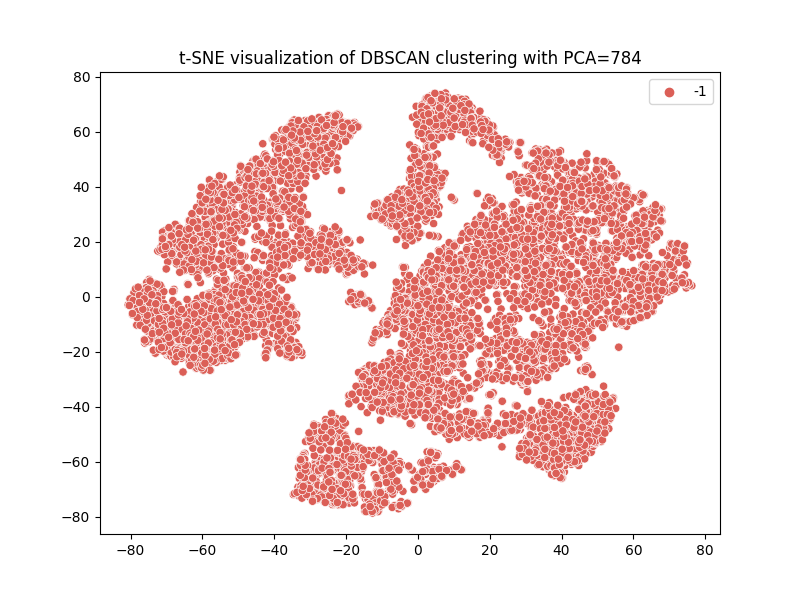
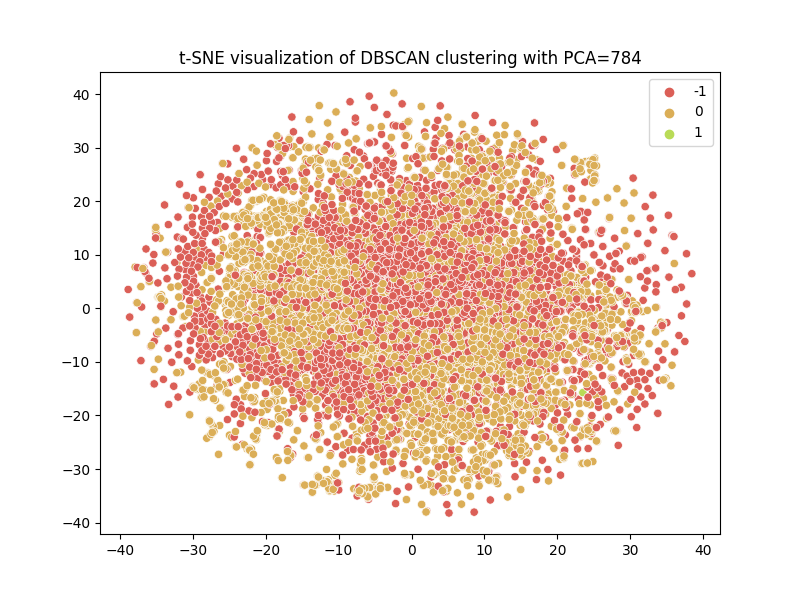
dbscan.py update & Result images.

diff --git a/dbscan.py b/dbscan.py
@@ -7,16 +7,23 @@ from sklearn.metrics import adjusted_rand_score
 from sklearn import datasets, metrics
 from sklearn.manifold import TSNE
 import seaborn as sns
+from sklearn.preprocessing import StandardScaler
 
 fashion_mnist = datasets.fetch_openml('Fashion-MNIST')
 X_test = fashion_mnist.data[60000:] / 255
 y_test = fashion_mnist.target[60000:].astype(int)
+#Normalize 하는 과정 거침
 
-def run_and_plot_pca_dbscan(X, y, n_components, eps=5, min_samples=4):
+
+def run_and_plot_pca_dbscan(X, y, n_components, eps, min_samples):
     pca = PCA(n_components=n_components)
     X_pca = pca.fit_transform(X)
 
-    dbscan = DBSCAN(eps=eps, min_samples=min_samples, p=5)
+    # Standardize the features to have mean=0 and variance=1
+    scaler = StandardScaler()
+    X_pca = scaler.fit_transform(X_pca)
+
+    dbscan = DBSCAN(eps=eps, min_samples=min_samples)
     y_pred = dbscan.fit_predict(X_pca)
 
     tsne = TSNE(n_components=2, random_state=42)
@@ -30,14 +37,76 @@ def run_and_plot_pca_dbscan(X, y, n_components, eps=5, min_samples=4):
     ari_score = adjusted_rand_score(y, y_pred)
     print(f'Adjusted Rand Index (ARI) with PCA={n_components}: {ari_score}')
     print("y_qrep.unique(numpy) : ", np.unique(y_pred), ". If this value is -1, all points considered as noise!!!!")
+    # 전부 Noise나와서 Ari-score 0되는거 확인하는 코드
 
     return ari_score
 
 dimensions = [784, 100, 50, 10]
-ari_scores = {}
+eps = 27
+min_samples = 3
+ari_scores_dbscan = {}
 
 for dim in dimensions:
-    ari_scores[dim] = run_and_plot_pca_dbscan(X_test, y_test, dim)
+    ari_scores_dbscan[dim] = run_and_plot_pca_dbscan(X_test, y_test, dim, eps, min_samples)
 
-ari_df = pd.DataFrame(list(ari_scores.items()), columns=['PCA_Dimension', 'ARI_Score'])
-print(ari_df)
+
+ari_df_dbscan = pd.DataFrame(list(ari_scores_dbscan.items()), columns=['PCA_Dimension', 'ARI_Score'])
+print(ari_df_dbscan)
+
+#    PCA_Dimension  ARI_Score   (eps= 27, min_samples = 3)
+# 0            784   0.055443
+# 1            100   0.000000
+# 2             50   0.000000
+# 3             10   0.000000
+
+
+
+# def dbscan_revise(X, y, n_components, eps, min_samples):
+#     pca = PCA(n_components=n_components)
+#     X_pca = pca.fit_transform(X)
+#
+#     model = TSNE(learning_rate=300)
+#     transformed = model.fit_transform(X_pca)
+#
+#     model = DBSCAN(eps = eps, min_samples= min_samples)
+#     predict = model.fit_predict(transformed)
+#
+#     tsne = TSNE(n_components=2, random_state=42)
+#     X_tsne = tsne.fit_transform(X_pca)
+#
+#
+#     dataset = pd.DataFrame({{'Column1:',transformed[:,0],'Column2:',transformed[:,1]})
+#     dataset['cluster_num'] = pd.Series(predict.labels_)
+#
+#     viz_img(y_pred)
+# def run_and_plot_pca_dbscan(X, y, n_components, eps, min_samples):
+#     pca = PCA(n_components=n_components)
+#     X_pca = pca.fit_transform(X)
+#
+#     dbscan = DBSCAN(eps=eps, min_samples=min_samples)
+#     y_pred = dbscan.fit_predict(X_pca)
+#
+#     tsne = TSNE(n_components=2, random_state=42)
+#     X_tsne = tsne.fit_transform(X_pca)
+#
+#     plt.figure(figsize=(8, 6))
+#     sns.scatterplot(x=X_tsne[:, 0], y=X_tsne[:, 1], hue=y_pred, palette=sns.color_palette("hls", 10))
+#     plt.title(f't-SNE visualization of DBSCAN clustering with PCA={n_components}')
+#     plt.show()
+#
+#     ari_score = adjusted_rand_score(y, y_pred)
+#     print(f'Adjusted Rand Index (ARI) with PCA={n_components}: {ari_score}')
+#     print("y_qrep.unique(numpy) : ", np.unique(y_pred), ". If this value is -1, all points considered as noise!!!!")
+#     # 전부 Noise나와서 Ari-score 0되는거 확인하는 코드
+#
+#     return ari_score
+#
+# dimensions = [784, 100, 50, 10]
+# ari_scores = {}
+#
+# for dim in dimensions:
+#     ari_scores[dim] = dbscan_revise(X_test, y_test, dim, eps = 10, min_samples=4)
+#
+# ari_df = pd.DataFrame(list(ari_scores.items()), columns=['PCA_Dimension', 'ARI_Score'])
+# print(ari_df)
+
